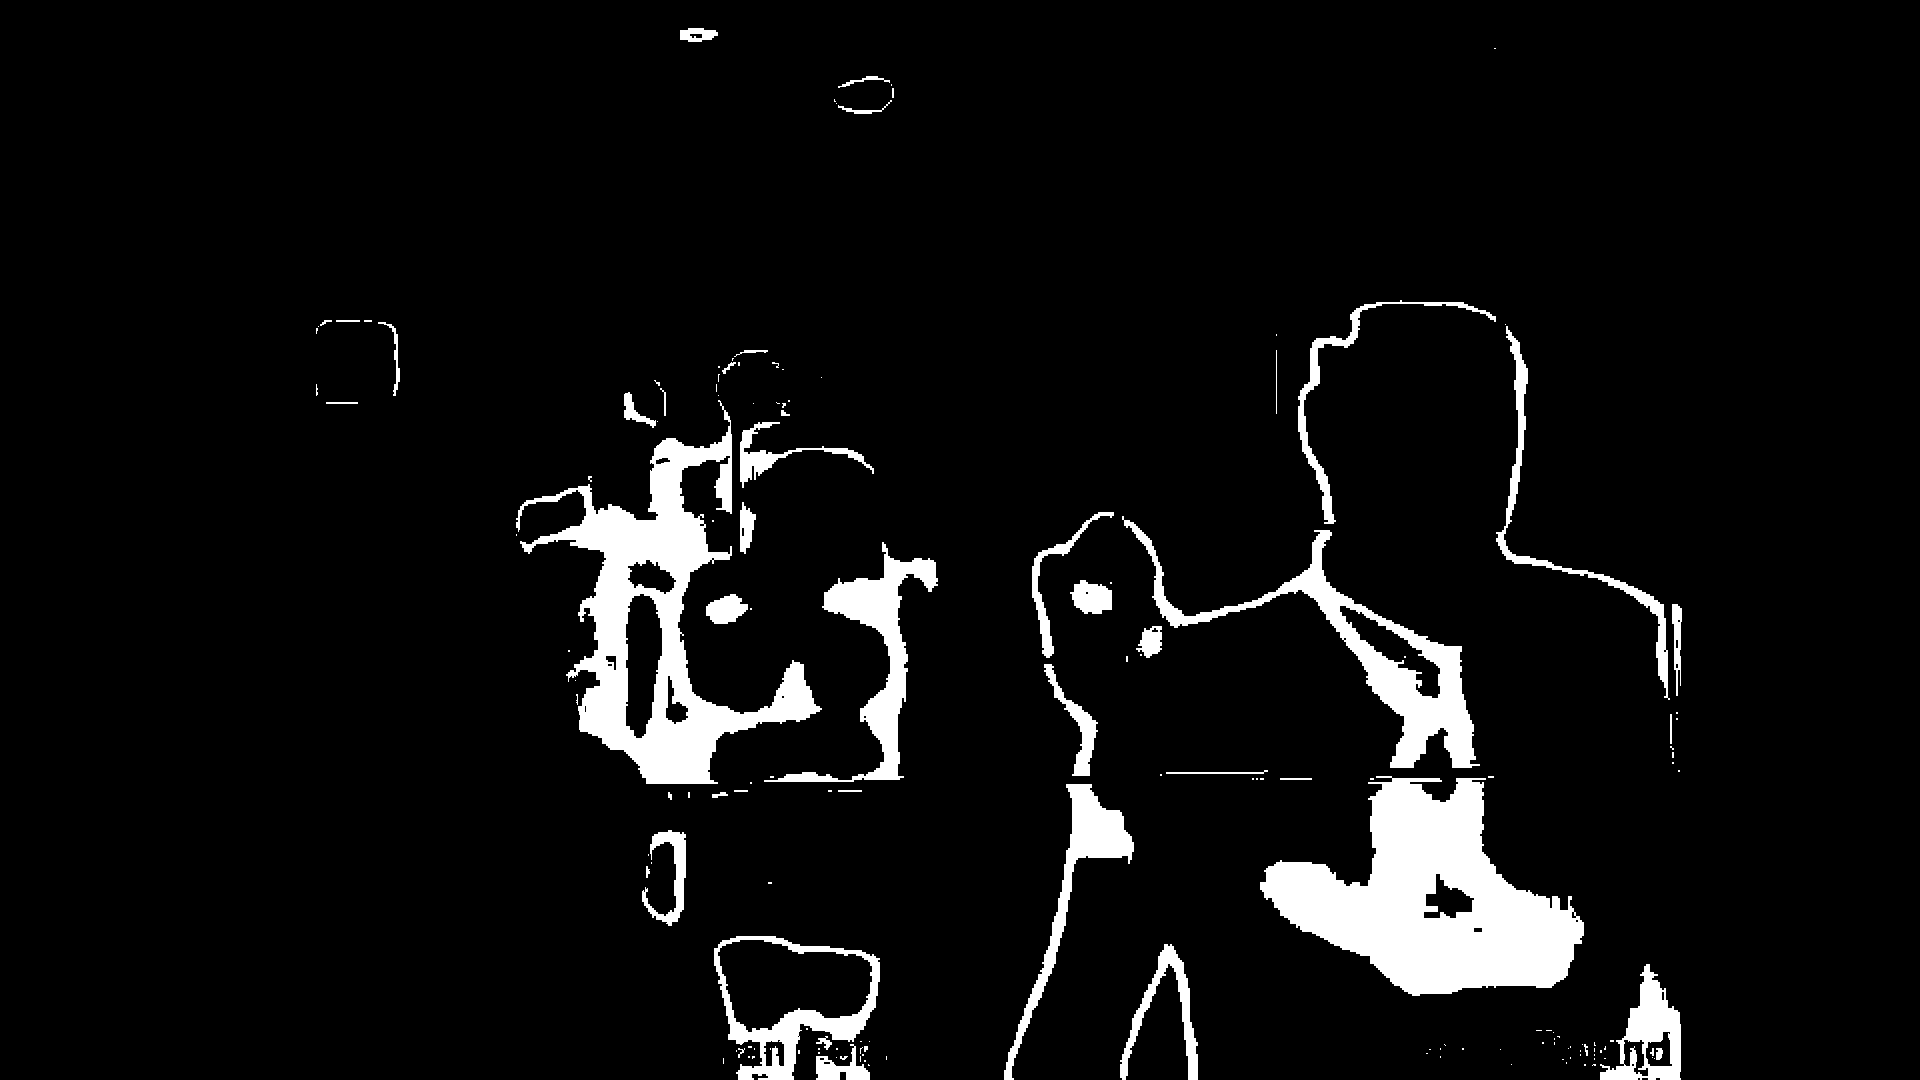
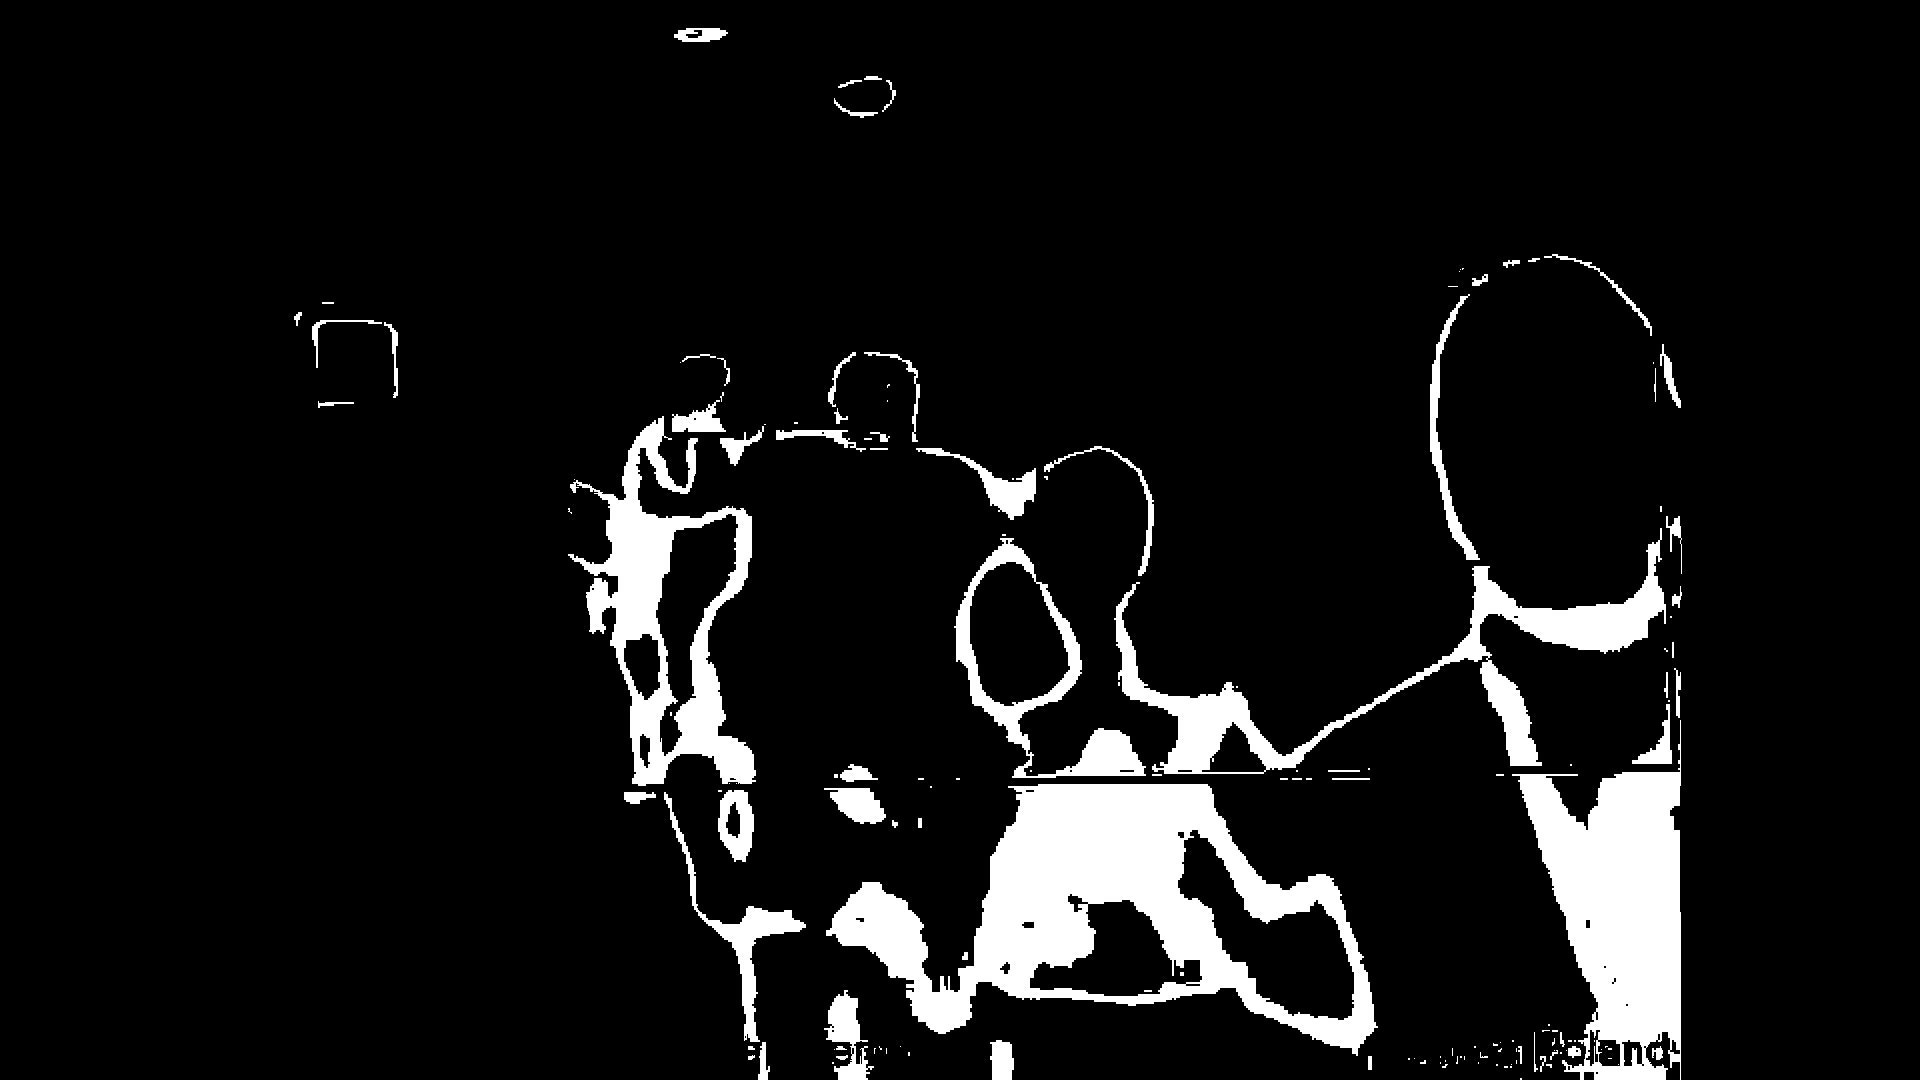
Methodos add Db analisis

diff --git a/AddFrameData.py b/AddFrameData.py
@@ -1,0 +1,64 @@
+# DB
+import pymysql
+
+# //////////////////////////////////////
+# Conexion
+# //////////////////////////////////////
+from Conexion import Conexion
+
+
+def AddDataFrameScala (GuidTest, FrameProcess, Scala, TotalPixelsImg, PixelBlack, Pixelcolor, PorcentajeColorPixel, TimeScala):
+
+    # Connect to the database
+    connection = pymysql.connect(host=Conexion[0],
+                            user=Conexion[1],
+                            password=Conexion[2],
+                            db=Conexion[3],
+                            charset='utf8mb4',
+                            cursorclass=pymysql.cursors.DictCursor)
+
+    try:
+        with connection.cursor() as cursor:
+        # Create a new record
+                         
+            sql = "INSERT INTO `DataFrameScala` ( `Guid`, `Frame`, `ScalaId`, `TotalPixels`, `BlackPixels`,  `ColorPixels`,  `PerCentumColor`,  `ElapsedTime`) VALUES (%s, %s, %s, %s, %s, %s, %s, %s)"
+            cursor.execute(sql, (GuidTest, FrameProcess, Scala, TotalPixelsImg, PixelBlack, Pixelcolor, PorcentajeColorPixel, TimeScala))
+            
+            # connection is not autocommit by default. So you must commit to save
+            # your changes.
+            connection.commit()
+
+            print ("///////////////////////////////////////////////////////////////////")
+            print ("   --  Se realizo Registro del Analisis del Frame-Scala", FrameProcess, "- Scala", Scala)
+            print ("///////////////////////////////////////////////////////////////////")
+
+    finally:
+        connection.close()
+
+def AddFrameProcessing (GuidTest, FrameProcess, SumPorcentaje, ElapsedTime):
+
+    # Connect to the database
+    connection = pymysql.connect(host=Conexion[0],
+                            user=Conexion[1],
+                            password=Conexion[2],
+                            db=Conexion[3],
+                            charset='utf8mb4',
+                            cursorclass=pymysql.cursors.DictCursor)
+
+    try:
+        with connection.cursor() as cursor:
+        # Create a new record
+                         
+            sql = "INSERT INTO `FrameProcessing` ( `Guid`, `Frame`, `TotalPerCentum`, `ElapsedTime`) VALUES (%s, %s, %s, %s)"
+            cursor.execute(sql, (GuidTest, FrameProcess, SumPorcentaje, ElapsedTime))
+            
+            # connection is not autocommit by default. So you must commit to save
+            # your changes.
+            connection.commit()
+
+            print ("///////////////////////////////////////////////////////////////////")
+            print ("   --  Se realizo Registro del Analisis del Frame Totales", FrameProcess)
+            print ("///////////////////////////////////////////////////////////////////")
+
+    finally:
+        connection.close()

diff --git a/recorrer-Frame.py b/recorrer-Frame.py
@@ -3,10 +3,20 @@ import numpy as np
 
 from datetime import datetime
 StartProcess = datetime.now()
-
 from time import time
+
 from PIL import Image
 
+# DB
+import pymysql
+# GUID
+import uuid 
+
+#///////////////////////////////////////////
+# Generamos Un GUID 
+#///////////////////////////////////////////
+IdUnico = uuid.uuid4()
+GuidTest = str(IdUnico)
 
 #////////////////////////
 CountFrame = 1
@@ -25,9 +35,12 @@ while (CountFrame < 73):
     print ("--------------- New Frame ----------------")
     # Time start 
     starttimeFrame = time()
+    PercentageTotal = []
 
     # interacciones por cada Scala definida
     for Scala in Scalas:
+
+        starttimeScala = time()
 
         # Clasificacion de scalas
         if (Scala == 1):
@@ -68,11 +81,11 @@ while (CountFrame < 73):
         else:
             #fuchsia
             Color = "Fuchsia"
-            Scala_bajos = np.array([130,50,50])
-            Scala_altos = np.array([168, 255, 255])
+            Scala_bajos = np.array([130,100, 20])
+            Scala_altos = np.array([169, 255, 255])
 
         
-
+        
         PixelBlack = 0
         Pixelcolor = 0
 
@@ -119,16 +132,38 @@ while (CountFrame < 73):
         print (" - Pixel-Color: ", Pixelcolor)
         print (" - % Pixel-Color: ", PorcentajeColorPixel,"%")
 
+        PercentageTotal.append(PorcentajeColorPixel)
+
+        # Time Frame Process
+        elapsedtimeScala = time() - starttimeScala
+        TimeScala = float("{0:.4f}".format(elapsedtimeScala))
+
+        # 
+        from AddFrameData import AddDataFrameScala
+        AddDataFrameScala (GuidTest, FrameProcess, Scala, TotalPixelsImg, PixelBlack, Pixelcolor, PorcentajeColorPixel, TimeScala)
+
+        #
+        print("Elapsed time Scala: %0.4f seconds." % elapsedtimeScala)
+
     print("")
     CountFrame += 1
 
     # Time Frame Process
     elapsedtimeFrame = time() - starttimeFrame
-    print("Elapsed time Frame: %0.10f seconds." % elapsedtimeFrame)
+    TimeFrame = float("{0:.4f}".format(elapsedtimeFrame))
+    #
+    print("Elapsed time Frame: %0.4f seconds." % elapsedtimeFrame)
+
+    #
+    SumPorcentaje = sum(PercentageTotal)
+    from AddFrameData import AddFrameProcessing
+    AddFrameProcessing (GuidTest, FrameProcess, SumPorcentaje, TimeFrame)
 
 
 elapsed_time = time() - start_time
-print("Elapsed time Total: %0.10f seconds." % elapsed_time)
+TimeProcess = float("{0:.4f}".format(elapsed_time))
+#
+print("Elapsed time Total: %0.4f seconds." % elapsed_time)
 
 from datetime import datetime
 EndProcess = datetime.now()

diff --git a/app.py b/app.py
@@ -69,10 +69,10 @@ def AnalisFrame (color, rango_bajos, rango_altos):
     #print(len(mask))
 
     #Mostramos la imagen original y la máscara:
-    #cv2.imshow("Original", img)
+    cv2.imshow("Original", img)
 
     #Mostramos la imagen original y la máscara:
-    #cv2.imshow(color, mask)
+    cv2.imshow(color, mask)
 
     cv2.imwrite('FramePresado.png',mask)
     
@@ -103,7 +103,7 @@ def AnalisFrame (color, rango_bajos, rango_altos):
     cv2.destroyAllWindows()"""
     
 
-    #input()
+    input()
     
  
 AnalisFrame (Scala1, Scala1_bajos, Scala1_altos)

diff --git a/Conexion.py b/Conexion.py
@@ -1,0 +1,6 @@
+Conexion = [
+    "192.168.100.51",
+    "Qatest",
+    "Quito.2019",
+    "Thermal-Analysis",
+]
